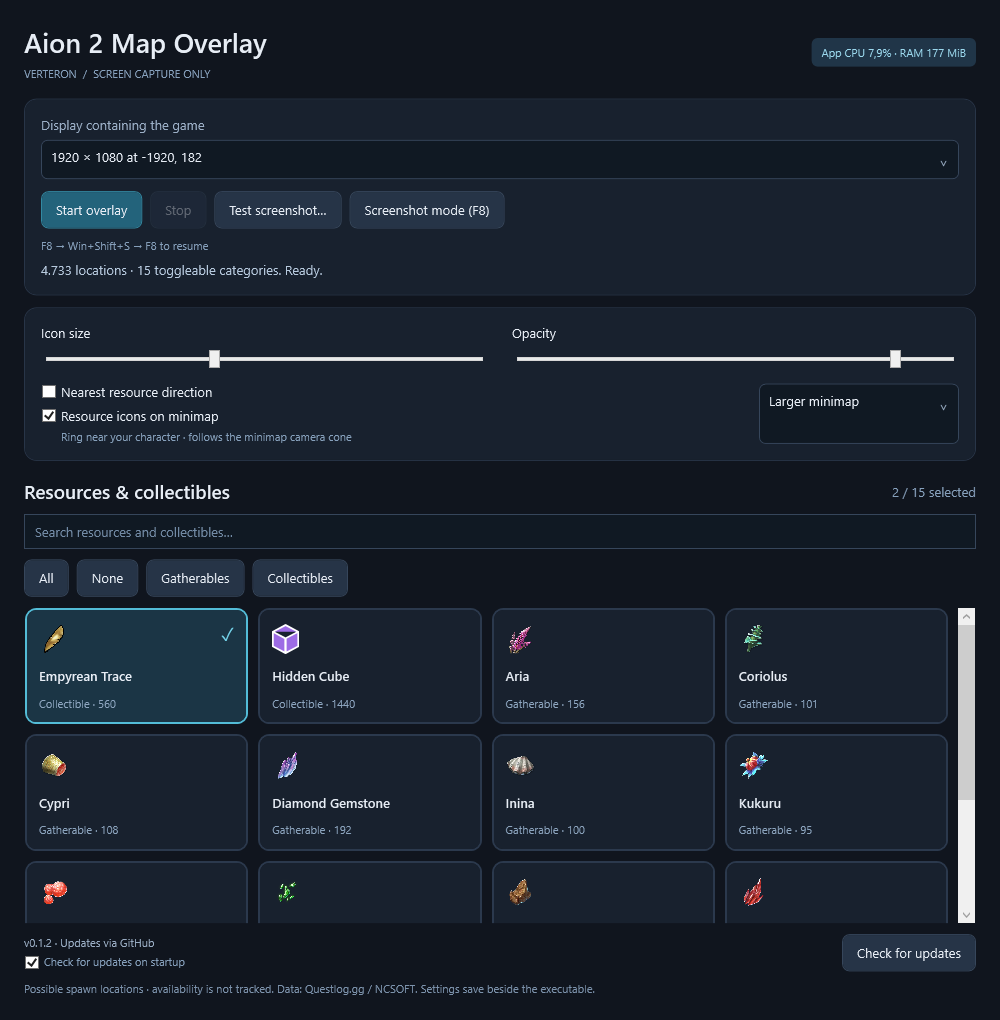
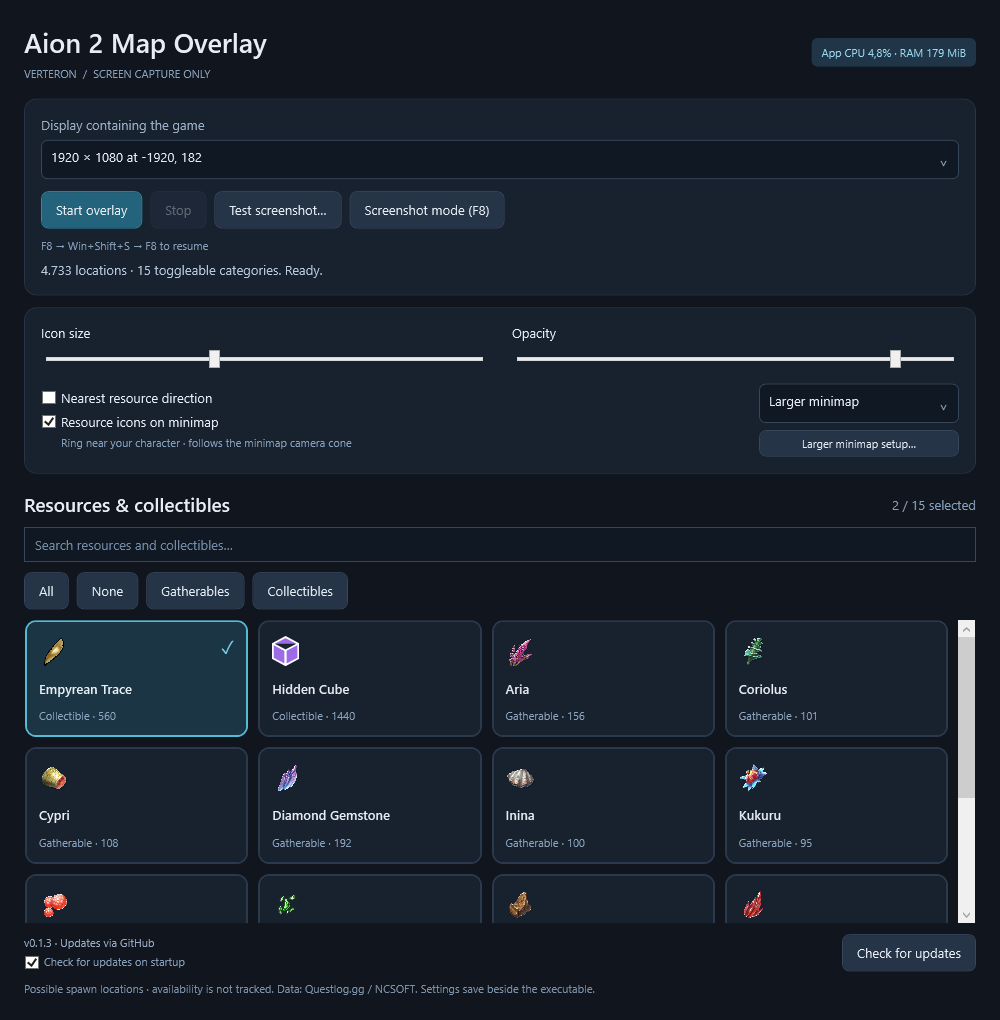
Recover capture interruptions, add HUD import guide, and bundle portable folder

Changed region(s): [[0.0, 0.3647, 0.961, 0.9118], [0.744, 0.3951, 0.992, 0.5167], [0.961, 0.5775, 0.992, 0.6382]]

diff --git a/src/Aion2MapOverlay.App/MainWindow.xaml b/src/Aion2MapOverlay.App/MainWindow.xaml
@@ -77,9 +77,12 @@
       <CheckBox x:Name="MinimapIconsToggle" Content="Resource icons on minimap" IsChecked="True" Foreground="#E7EDF5" Margin="0,8,0,0" Checked="Navigation_Changed" Unchecked="Navigation_Changed"/>
       <TextBlock Text="Ring near your character · follows the minimap camera cone" FontSize="11" Foreground="#87A1BD" Margin="20,5,0,0"/>
      </StackPanel>
-     <ComboBox x:Name="MinimapPresetPicker" Grid.Column="1" SelectedIndex="1" SelectionChanged="MinimapPreset_Changed" ToolTip="Choose the minimap layout used in Aion 2">
+     <StackPanel Grid.Column="1">
+     <ComboBox x:Name="MinimapPresetPicker" SelectedIndex="1" SelectionChanged="MinimapPreset_Changed" ToolTip="Choose the minimap layout used in Aion 2">
       <ComboBoxItem Content="Default minimap"/><ComboBoxItem Content="Larger minimap"/>
      </ComboBox>
+     <Button Content="Larger minimap setup…" Click="HudGuide_Click" Margin="0,7,0,0" Padding="8,5" FontSize="11"/>
+     </StackPanel>
     </Grid>
    </Grid>
   </Border>

diff --git a/src/Aion2MapOverlay.Capture/DesktopCapture.cs b/src/Aion2MapOverlay.Capture/DesktopCapture.cs
@@ -10,9 +10,16 @@ public sealed record DisplayArea(int X, int Y, int Width, int Height)
 
 // Initial capture backend: bounded, downsampled desktop snapshots, no video encoding.
 // Deliberately isolated so a GPU-backed backend can replace it after profiling.
+public sealed class ScreenCaptureException(string operation, int nativeError) : IOException(
+    $"{operation} failed (Windows error {nativeError}).")
+{
+    public int NativeError { get; } = nativeError;
+}
+
 public sealed class DesktopCapture : IDisposable
 {
-    private readonly nint screen, memory, bitmap, oldBitmap, pixels;
+    private nint screen, memory, bitmap, oldBitmap, pixels;
+    private bool disposed;
     public int Width { get; }
     public int Height { get; }
     public DisplayArea Display { get; }
@@ -28,44 +35,66 @@ public sealed class DesktopCapture : IDisposable
 
     public DesktopCapture(DisplayArea display, int maximumWidth = 1600)
     {
+        if (display.Width <= 0 || display.Height <= 0 || maximumWidth <= 0) throw new ArgumentOutOfRangeException(nameof(display));
         Display = display; Width = Math.Min(maximumWidth, display.Width);
-        Height = (int)Math.Round(display.Height * (double)Width / display.Width);
-        screen = GetDC(0); memory = CreateCompatibleDC(screen);
-        var info = new BitmapInfo { Size = 40, Width = Width, Height = -Height, Planes = 1, BitCount = 32 };
-        bitmap = CreateDIBSection(screen, ref info, 0, out pixels, 0, 0);
-        if (screen == 0 || memory == 0 || bitmap == 0) { Dispose(); throw new InvalidOperationException("Windows screen capture could not be initialized."); }
-        oldBitmap = SelectObject(memory, bitmap);
-        SetStretchBltMode(memory, 3);
+        Height = Math.Max(1, (int)Math.Round(display.Height * (double)Width / display.Width));
+        // Initialize on the first frame so temporary desktop unavailability can be retried.
+    }
+
+    private void Initialize()
+    {
+        if (memory != 0) return;
+        try
+        {
+            screen = GetDC(0);
+            if (screen == 0) throw new ScreenCaptureException("Desktop access", Marshal.GetLastWin32Error());
+            memory = CreateCompatibleDC(screen);
+            if (memory == 0) throw new ScreenCaptureException("Capture context creation", Marshal.GetLastWin32Error());
+            var info = new BitmapInfo { Size = 40, Width = Width, Height = -Height, Planes = 1, BitCount = 32 };
+            bitmap = CreateDIBSection(screen, ref info, 0, out pixels, 0, 0);
+            if (bitmap == 0 || pixels == 0) throw new ScreenCaptureException("Capture buffer creation", Marshal.GetLastWin32Error());
+            oldBitmap = SelectObject(memory, bitmap);
+            if (oldBitmap == 0 || oldBitmap == -1) throw new ScreenCaptureException("Capture buffer selection", Marshal.GetLastWin32Error());
+            SetStretchBltMode(memory, 3);
+        }
+        catch { Reset(); throw; }
     }
 
     public Mat GrabGray()
     {
+        ObjectDisposedException.ThrowIf(disposed, this);
+        Initialize();
         if (!StretchBlt(memory, 0, 0, Width, Height, screen, Display.X, Display.Y, Display.Width, Display.Height, 0x00CC0020))
-            throw new InvalidOperationException("Windows screen capture failed.");
+            throw new ScreenCaptureException("Screen capture", Marshal.GetLastWin32Error());
         using var color = Mat.FromPixelData(Height, Width, MatType.CV_8UC4, pixels);
-        var gray = new Mat(); Cv2.CvtColor(color, gray, ColorConversionCodes.BGRA2GRAY); return gray;
+        var gray = new Mat();
+        try { Cv2.CvtColor(color, gray, ColorConversionCodes.BGRA2GRAY); return gray; }
+        catch { gray.Dispose(); throw; }
     }
 
-    public void Dispose()
+    public void Reset()
     {
-        if (oldBitmap != 0) SelectObject(memory, oldBitmap);
+        if (oldBitmap != 0 && oldBitmap != -1) SelectObject(memory, oldBitmap);
         if (bitmap != 0) DeleteObject(bitmap);
         if (memory != 0) DeleteDC(memory);
         if (screen != 0) ReleaseDC(0, screen);
+        screen = memory = bitmap = oldBitmap = pixels = 0;
     }
+
+    public void Dispose() { Reset(); disposed = true; }
 
     [StructLayout(LayoutKind.Sequential)] private struct NativeRect { public int Left, Top, Right, Bottom; }
     [StructLayout(LayoutKind.Sequential)] private struct BitmapInfo
     { public uint Size; public int Width, Height; public ushort Planes, BitCount; public uint Compression, ImageSize; public int XPels, YPels; public uint Used, Important; }
     private delegate bool MonitorCallback(nint monitor, nint dc, ref NativeRect rect, nint data);
     [DllImport("user32.dll")] private static extern bool EnumDisplayMonitors(nint dc, nint clip, MonitorCallback callback, nint data);
-    [DllImport("user32.dll")] private static extern nint GetDC(nint window);
+    [DllImport("user32.dll", SetLastError = true)] private static extern nint GetDC(nint window);
     [DllImport("user32.dll")] private static extern int ReleaseDC(nint window, nint dc);
-    [DllImport("gdi32.dll")] private static extern nint CreateCompatibleDC(nint dc);
-    [DllImport("gdi32.dll")] private static extern nint CreateDIBSection(nint dc, ref BitmapInfo info, uint usage, out nint pixels, nint section, uint offset);
-    [DllImport("gdi32.dll")] private static extern nint SelectObject(nint dc, nint obj);
-    [DllImport("gdi32.dll")] private static extern bool DeleteObject(nint obj);
-    [DllImport("gdi32.dll")] private static extern bool DeleteDC(nint dc);
-    [DllImport("gdi32.dll")] private static extern int SetStretchBltMode(nint dc, int mode);
-    [DllImport("gdi32.dll")] private static extern bool StretchBlt(nint dest, int x, int y, int width, int height, nint source, int sx, int sy, int sw, int sh, uint operation);
+    [DllImport("gdi32.dll", SetLastError = true)] private static extern nint CreateCompatibleDC(nint dc);
+    [DllImport("gdi32.dll", SetLastError = true)] private static extern nint CreateDIBSection(nint dc, ref BitmapInfo info, uint usage, out nint pixels, nint section, uint offset);
+    [DllImport("gdi32.dll", SetLastError = true)] private static extern nint SelectObject(nint dc, nint obj);
+    [DllImport("gdi32.dll", SetLastError = true)] private static extern bool DeleteObject(nint obj);
+    [DllImport("gdi32.dll", SetLastError = true)] private static extern bool DeleteDC(nint dc);
+    [DllImport("gdi32.dll", SetLastError = true)] private static extern int SetStretchBltMode(nint dc, int mode);
+    [DllImport("gdi32.dll", SetLastError = true)] private static extern bool StretchBlt(nint dest, int x, int y, int width, int height, nint source, int sx, int sy, int sw, int sh, uint operation);
 }

diff --git a/src/Aion2MapOverlay.App/MainWindow.xaml.cs b/src/Aion2MapOverlay.App/MainWindow.xaml.cs
@@ -252,6 +252,7 @@ public partial class MainWindow : Window
             using var tracker = new TerrainTracker(Paths.Reference, Paths.Title);
             using var capture = new DesktopCapture(display);
             using var navigation = new NavigationSession(index, display);
+            var recovery = new FrameRecovery();
             while (!token.IsCancellationRequested)
             {
                 if (capturePaused) { await Task.Delay(50, token); continue; }
@@ -288,18 +289,27 @@ public partial class MainWindow : Window
                             .Select(m => { var point = t.Apply(m.ReferenceX, m.ReferenceY); return new PlacedMarker(point.X, point.Y, m.GroupKey, m.Id); }).ToArray();
                         frame = new(markers, capture.Width, capture.Height, capturedAt);
                     }
+                    recovery.Succeeded();
                     var elapsed = watch.Elapsed.TotalMilliseconds;
                     await Deliver(frame, aligned is null ? guidanceStatus ?? "Verteron map not visible, or alignment lost." :
                         $"{aligned.Method} · {aligned.Inliers} points · {elapsed:F0} ms · {frame!.Markers.Length} visible markers", guidance, minimap);
                     var interval = aligned is null ? (navigationSettings.Enabled || navigationSettings.Icons ? 100 : 200) : 33;
                     await Task.Delay(Math.Max(1, (int)(interval - watch.Elapsed.TotalMilliseconds)), token);
                 }
+                catch (Exception error) when (error is ScreenCaptureException or OpenCvSharp.OpenCVException)
+                {
+                    tracker.Reset(); capture.Reset(); navigation.Dispose();
+                    RuntimeLog.Write($"Frame failed on display {display}", error);
+                    if (!recovery.TryRetry(error, out var delay)) throw new InvalidOperationException("Capture/recognition failed repeatedly. Try Start again. Details: logs/overlay.log", error);
+                    await Deliver(null, $"Capture interrupted; retrying {recovery.Failures}/8. {error.Message}");
+                    await Task.Delay(delay, token);
+                }
                 finally { captureGate.Release(); }
             }
         }, token);
         try { await worker; }
         catch (OperationCanceledException) { }
-        catch (Exception error) { StatusText.Text = "Overlay stopped: " + error.Message; }
+        catch (Exception error) { RuntimeLog.Write("Overlay stopped", error); StatusText.Text = "Overlay stopped: " + error.Message + " · Details: logs/overlay.log"; }
         finally
         {
             overlay?.Close(); overlay = null; worker = null; cancellation?.Dispose(); cancellation = null;
@@ -381,6 +391,8 @@ public partial class MainWindow : Window
         }
         finally { ScreenshotModeButton.IsEnabled = true; }
     }
+
+    private void HudGuide_Click(object sender, RoutedEventArgs e) => HudGuide.Show(this);
 
     private void Stop_Click(object sender, RoutedEventArgs e) { cancellation?.Cancel(); overlay?.Update(null, 20, 1); StatusText.Text = "Stopped."; }
     private void Appearance_Changed(object sender, RoutedPropertyChangedEventArgs<double> e) { if (ready) SelectionChanged(); }

diff --git a/src/Aion2MapOverlay.App/HudGuide.cs b/src/Aion2MapOverlay.App/HudGuide.cs
@@ -1,0 +1,49 @@
+using System.IO;
+using System.Reflection;
+using System.Runtime.InteropServices;
+using System.Windows;
+using System.Windows.Controls;
+using System.Windows.Media;
+
+namespace Aion2MapOverlay.App;
+
+internal static class HudGuide
+{
+    public static string Code { get; } = ReadCode();
+    private static string ReadCode()
+    {
+        using var stream = Assembly.GetExecutingAssembly().GetManifestResourceStream("Aion2MapOverlay.App.Assets.LargeMinimapHud.txt")
+            ?? throw new InvalidOperationException("HUD preset is missing");
+        using var reader = new StreamReader(stream);
+        var code = reader.ReadToEnd();
+        if (!code.EndsWith('=') || code.Any(char.IsWhiteSpace)) throw new InvalidDataException("Invalid HUD preset formatting");
+        return code;
+    }
+
+    public static void Show(Window owner)
+    {
+        var dialog = Create(owner); dialog.Owner = owner; dialog.ShowDialog();
+    }
+
+    internal static Window Create(Window owner)
+    {
+        var content = new StackPanel { Margin = new Thickness(24) };
+        var dialog = new Window { Title = "Larger minimap setup", Width = 500, SizeToContent = SizeToContent.Height,
+            ResizeMode = ResizeMode.NoResize, WindowStartupLocation = WindowStartupLocation.CenterOwner,
+            Background = owner.Background, Foreground = owner.Foreground, FontFamily = owner.FontFamily, FontSize = 13,
+            Resources = owner.Resources, Content = content, ShowInTaskbar = false };
+        content.Children.Add(new TextBlock { Text = "Import the larger minimap HUD", FontSize = 21, FontWeight = FontWeights.SemiBold, Margin = new Thickness(0, 0, 0, 14) });
+        content.Children.Add(new TextBlock { Text = "This imports a full HUD preset, including the larger minimap used by the overlay. Save your current layout to another preset first if you want to keep it.", TextWrapping = TextWrapping.Wrap, Margin = new Thickness(0, 0, 0, 16) });
+        content.Children.Add(new TextBlock { Text = "1. Press ESC in Aion 2 and click Edit HUD.\n\n2. Click Load (the downward arrow), then choose Import Code.\n\n3. Paste the copied code and click Import. Save the HUD layout.\n\n4. Keep Larger minimap selected in this app.", TextWrapping = TextWrapping.Wrap });
+        var status = new TextBlock { Text = "The copied code ends at =, with no trailing slash or newline.", TextWrapping = TextWrapping.Wrap, Foreground = Brushes.LightSteelBlue, Margin = new Thickness(0, 16, 0, 12) };
+        content.Children.Add(status);
+        var copy = new Button { Content = "Copy to clipboard", HorizontalAlignment = HorizontalAlignment.Left };
+        copy.Click += (_, _) =>
+        {
+            try { Clipboard.SetText(Code); status.Text = "Copied. Paste it into the Import Code box in Aion 2."; }
+            catch (ExternalException) { status.Text = "The clipboard is busy. Click Copy to clipboard again."; }
+        };
+        content.Children.Add(copy);
+        return dialog;
+    }
+}

diff --git a/src/Aion2MapOverlay.App/SmokeCheck.cs b/src/Aion2MapOverlay.App/SmokeCheck.cs
@@ -12,6 +12,20 @@ internal static class SmokeCheck
     {
         Directory.CreateDirectory(output);
         CameraHeadingChecks.Run();
+        var hudCode = HudGuide.Code;
+        _ = Convert.FromBase64String(hudCode);
+        if (!hudCode.EndsWith('=') || hudCode.Any(char.IsWhiteSpace) ||
[1 lines of base64/hex data omitted]
+            throw new Exception("HUD code differs from the supplied code or contains trailing characters");
+        var recovery = new FrameRecovery();
+        var captureFailure = new Aion2MapOverlay.Capture.ScreenCaptureException("Simulated desktop interruption", 5);
+        if (!recovery.TryRetry(captureFailure, out var firstDelay) || firstDelay <= TimeSpan.Zero) throw new Exception("Temporary capture failure must retry");
+        recovery.Succeeded();
+        if (recovery.Failures != 0) throw new Exception("Successful frames must reset recovery");
+        for (var i = 0; i < 8; i++)
+            if (!recovery.TryRetry(captureFailure, out var delay) || delay > TimeSpan.FromSeconds(3)) throw new Exception("Capture retries must be bounded and backed off");
+        if (recovery.TryRetry(captureFailure, out _) || recovery.TryRetry(new InvalidOperationException("Unexpected failure"), out _) ||
+            recovery.TryRetry(new OperationCanceledException(), out _)) throw new Exception("Permanent errors and cancellation must not silently retry");
         using var image = Mat.Zeros(64, 64, MatType.CV_8UC1).ToMat();
         Cv2.Circle(image, new(32, 32), 10, Scalar.White, -1);
         if (Cv2.CountNonZero(image) < 100) throw new Exception("Native OpenCV runtime unavailable.");
@@ -64,7 +78,7 @@ internal static class SmokeCheck
         }
         finally { Paths.DataRoot = originalDataRoot; }
         File.WriteAllText(Path.Combine(output, "smoke-test.json"), JsonSerializer.Serialize(new {
-            version = AppUpdates.CurrentVersion.ToString(), nativeOpenCvPassed = true, cameraHeadingPassed = true,
+            version = AppUpdates.CurrentVersion.ToString(), nativeOpenCvPassed = true, cameraHeadingPassed = true, hudCodeVerified = true, captureRecoveryPassed = true,
             unsafePathsRejected = 8, validPackageAccepted = true, tamperedPackageRejected = true, firstRunSetupPassed = true
         }, new JsonSerializerOptions { WriteIndented = true }));
     }

diff --git a/src/Aion2MapOverlay.App/SelfCheck.cs b/src/Aion2MapOverlay.App/SelfCheck.cs
@@ -98,10 +98,26 @@ internal static class SelfCheck
         var displays = DesktopCapture.Displays();
         using var capture = new DesktopCapture(displays[0]);
         timer.Restart(); using var captured = capture.GrabGray(); var captureMs = timer.Elapsed.TotalMilliseconds;
+        capture.Reset();
+        using var recaptured = capture.GrabGray();
+        if (recaptured.Empty() || recaptured.Size() != captured.Size()) throw new Exception("Capture reset must recreate a valid frame");
         if (captured.Empty() || Cv2.Mean(captured).Val0 < 1) throw new Exception("Desktop capture returned an empty frame");
         var icons = IconCache.Load();
         if (icons.Count != 15) throw new Exception("Expected all 15 category icons");
         var window = new MainWindow(); window.PrepareForCheck();
+        var guideDialog = HudGuide.Create(window);
+        var guideContent = (FrameworkElement)guideDialog.Content; guideDialog.Content = null;
+        var guideBorder = new System.Windows.Controls.Border { Background = guideDialog.Background, Child = guideContent, Resources = guideDialog.Resources };
+        System.Windows.Documents.TextElement.SetForeground(guideBorder, guideDialog.Foreground);
+        System.Windows.Documents.TextElement.SetFontFamily(guideBorder, guideDialog.FontFamily);
+        System.Windows.Documents.TextElement.SetFontSize(guideBorder, guideDialog.FontSize);
+        guideBorder.Measure(new System.Windows.Size(500, double.PositiveInfinity));
+        var guideHeight = (int)Math.Ceiling(guideBorder.DesiredSize.Height);
+        guideBorder.Arrange(new System.Windows.Rect(0, 0, 500, guideHeight)); guideBorder.UpdateLayout();
+        var guideBitmap = new RenderTargetBitmap(500, guideHeight, 96, 96, PixelFormats.Pbgra32); guideBitmap.Render(guideBorder);
+        var guideEncoder = new PngBitmapEncoder(); guideEncoder.Frames.Add(BitmapFrame.Create(guideBitmap));
+        using (var stream = File.Create(Path.Combine(output, "hud-guide.png"))) guideEncoder.Save(stream);
+        guideDialog.Close();
         var content = (FrameworkElement)window.Content; window.Content = null;
         var border = new System.Windows.Controls.Border { Background = window.Background, Child = content, Resources = window.Resources };
         System.Windows.Documents.TextElement.SetForeground(border, window.Foreground);

diff --git a/src/Aion2MapOverlay.App/FrameRecovery.cs b/src/Aion2MapOverlay.App/FrameRecovery.cs
@@ -1,0 +1,35 @@
+using System.IO;
+using Aion2MapOverlay.Capture;
+using OpenCvSharp;
+
+namespace Aion2MapOverlay.App;
+
+internal sealed class FrameRecovery
+{
+    public int Failures { get; private set; }
+    public void Succeeded() => Failures = 0;
+    public bool TryRetry(Exception error, out TimeSpan delay)
+    {
+        delay = TimeSpan.Zero;
+        if (error is not (ScreenCaptureException or OpenCVException)) return false;
+        Failures++;
+        delay = TimeSpan.FromMilliseconds(Math.Min(3000, Failures * 500));
+        return Failures <= 8;
+    }
+}
+
+internal static class RuntimeLog
+{
+    public static string FilePath => Path.Combine(AppContext.BaseDirectory, "logs", "overlay.log");
+    public static void Write(string context, Exception error)
+    {
+        try
+        {
+            Directory.CreateDirectory(Path.GetDirectoryName(FilePath)!);
+            if (File.Exists(FilePath) && new FileInfo(FilePath).Length > 1024 * 1024) File.Move(FilePath, FilePath + ".previous", true);
+            File.AppendAllText(FilePath, $"{DateTimeOffset.Now:O} v{AppUpdates.CurrentVersion} {context}\n{error}\n\n");
+        }
+        catch (IOException) { }
+        catch (UnauthorizedAccessException) { }
+    }
+}

diff --git a/README.md b/README.md
@@ -4,9 +4,11 @@ Find gatherables and collectibles without switching between the game and a websi
 
 Uses screen capture only. It does not read game memory, capture game network traffic, or send input to the game.
 
-**[Download the portable Windows app](https://github.com/NoRhythmDEV/aion2-map-overlay/releases/latest)**
+**[Download the portable Windows app](https://github.com/NoRhythmDEV/aion2-map-overlay/releases/latest/download/aion2-map-overlay-win-x64.zip)**
 
-Extract the ZIP and run `aion2-map-overlay.exe`. On first launch, download the map data from the app, then follow the map calibration prompt. No installer is required.
+Extract the ZIP, open the `aion2-map-overlay` folder, and run `aion2-map-overlay.exe`. On first launch, download the map data from the app, then follow the map calibration prompt. No installer is required.
+
+For the larger minimap layout, open **Larger minimap setup…** in the app. Copy the preset code, then in Aion 2 press **ESC → Edit HUD → Load → Import Code**, paste it, and click **Import**.
 
 ## Features
 
@@ -18,6 +20,7 @@ Extract the ZIP and run `aion2-map-overlay.exe`. On first launch, download the m
 - **Saved preferences:** Your filters, display, and appearance settings carry over between sessions.
 - **Screenshots:** Press **F8**, use **Win+Shift+S**, then press **F8** again to resume tracking.
 - **In-app updates:** Check GitHub for new versions and install them without losing your settings or downloaded data.
+- **Capture recovery:** Temporary capture interruptions retry automatically; error details are saved locally in `logs/overlay.log`.
 - **Usage display:** Keep an eye on the app's CPU and RAM use.
 
 Currently supports **Verteron with the English map UI**, at a 16:9 display ratio. Markers show possible spawn locations; live availability and gathering are not detected. Minimap guidance is experimental.
@@ -39,4 +42,4 @@ dotnet build Aion2MapOverlay.sln -c Release
 .\scripts\package-release.ps1
 ```
 
-The portable ZIP is created in `artifacts/release/`. It includes the .NET runtime; map data downloads through the app on first launch.
+The manual-download ZIP is `artifacts/release/aion2-map-overlay-win-x64.zip`. It includes the .NET runtime; map data downloads through the app on first launch.
